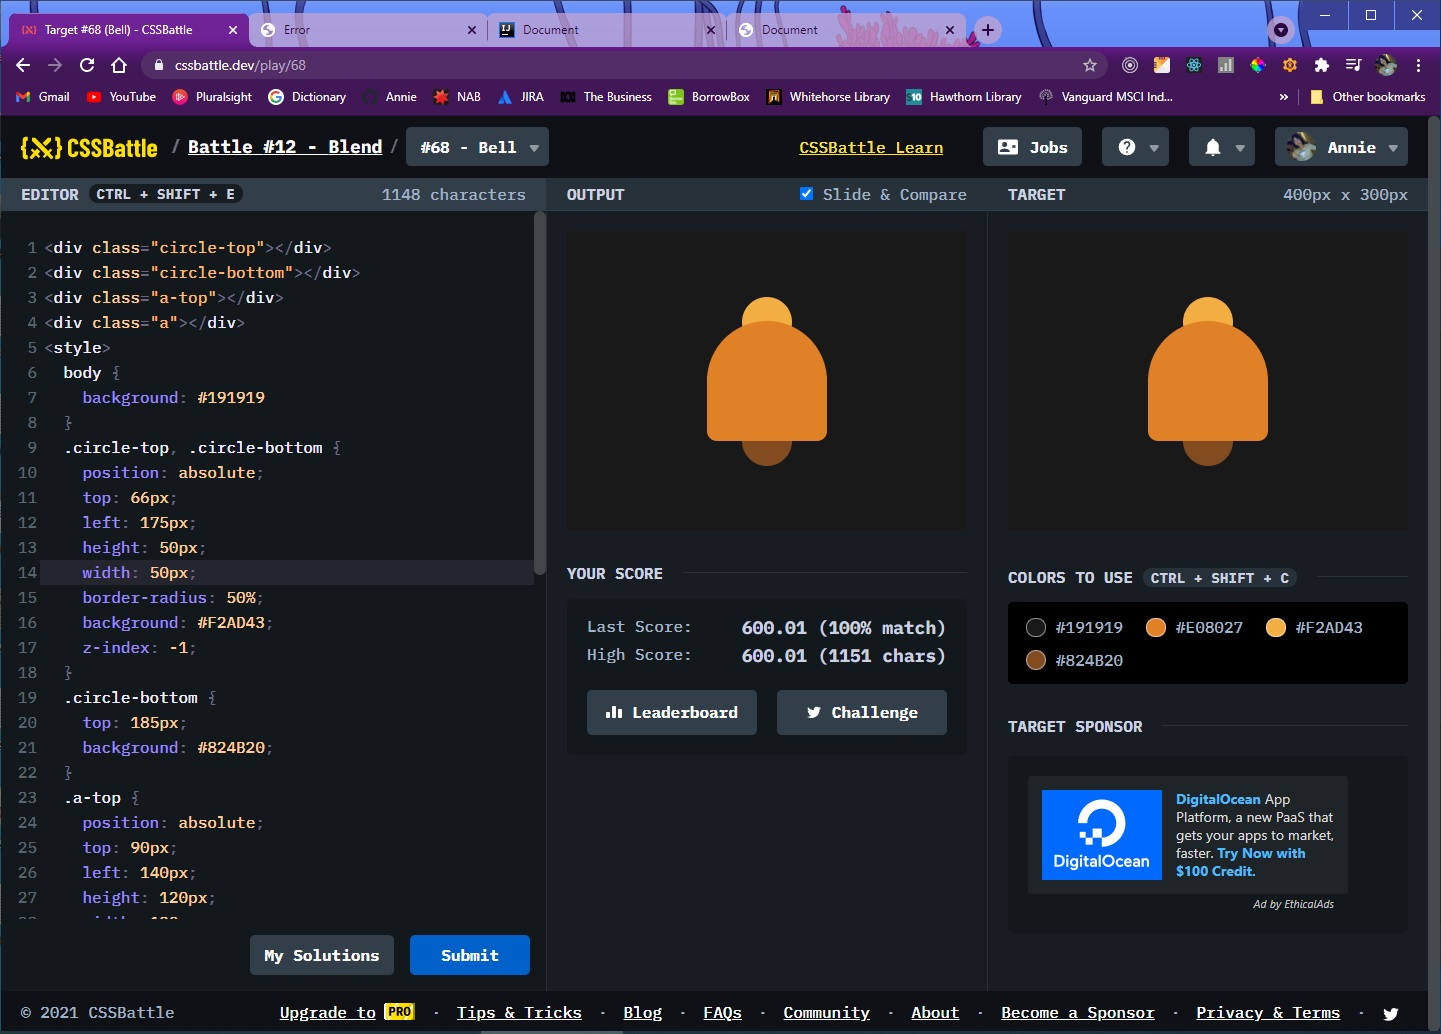
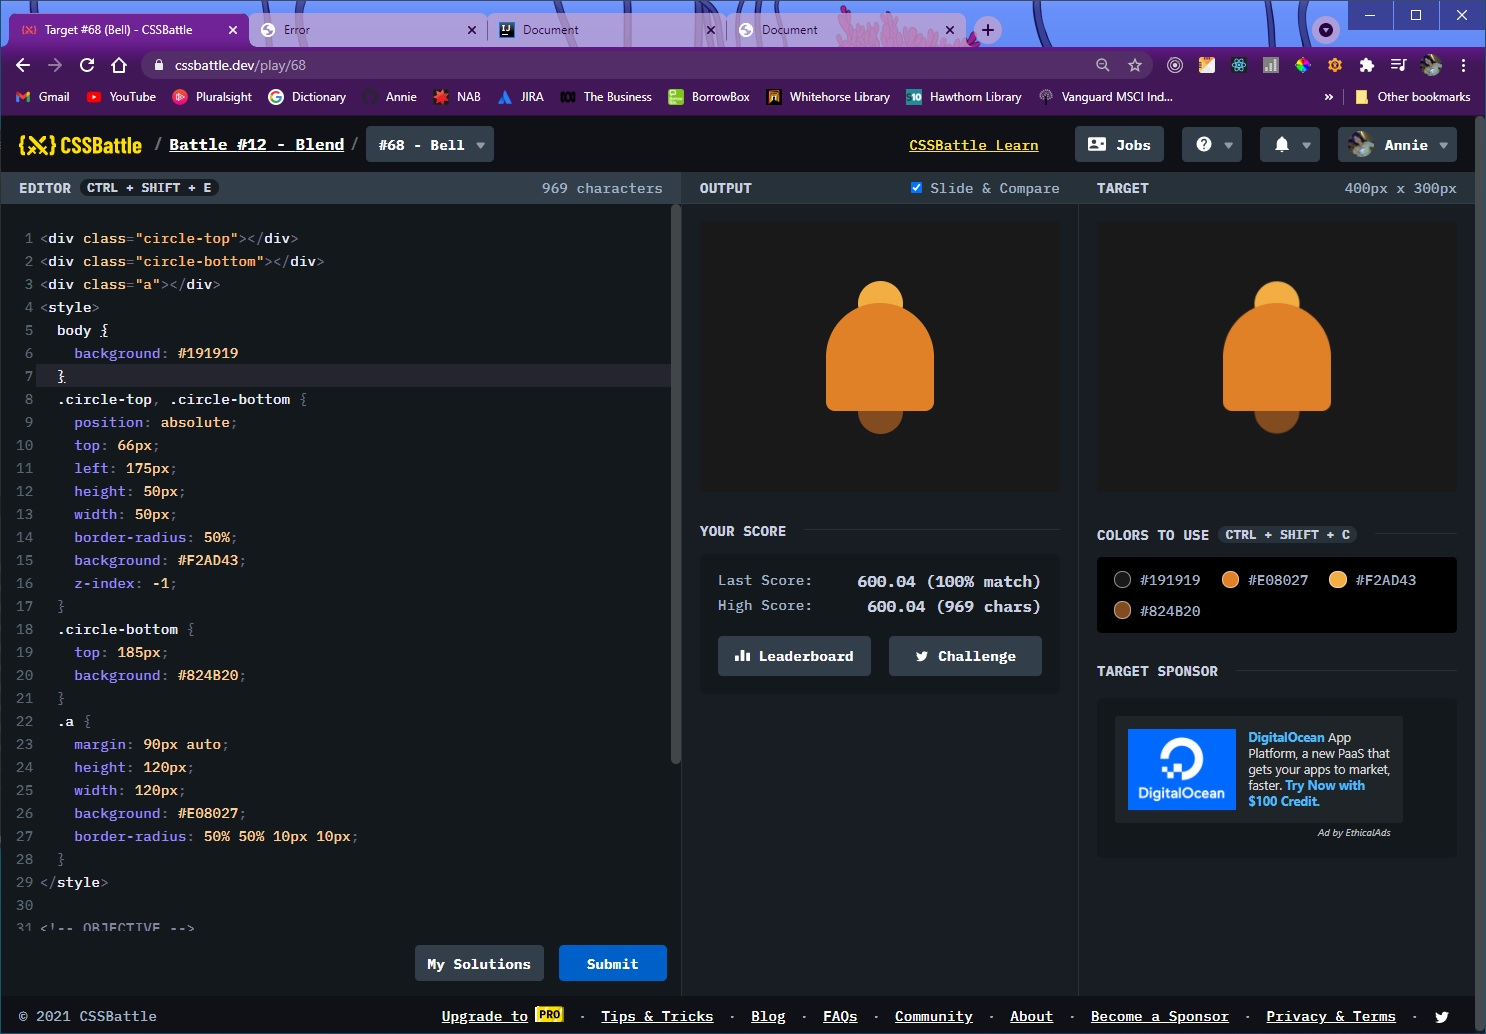
Add Battle #12 - Pilot Battle - #8. Format file. Forgot that you caan choose different figure for each radium corner.

diff --git a/Battle12-8/index.html b/Battle12-8/index.html
@@ -24,21 +24,12 @@
       top: 185px;
       background: #824B20;
     }
-    .a-top {
-      position: absolute;
-      top: 90px;
-      left: 140px;
+    .a {
+      margin: 90px auto;
       height: 120px;
       width: 120px;
-      border-radius: 50%;
       background: #E08027;
-    }
-    .a {
-      margin: 145px auto;
-      height: 65px;
-      width: 120px;
-      background: #E08027;
-      border-radius: 0 0 10px 10px;
+      border-radius: 50% 50% 10px 10px;
     }
   </style>
 </head>
@@ -46,7 +37,6 @@
 <!-- In order to see this, you must put one responsive node and set width: 400, height: 300 -->
 <div class="circle-top"></div>
 <div class="circle-bottom"></div>
-<div class="a-top"></div>
 <div class="a"></div>
 </body>
 </html>
